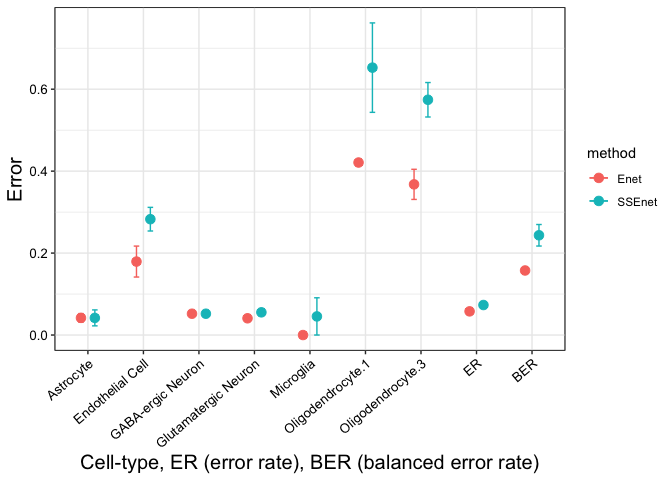
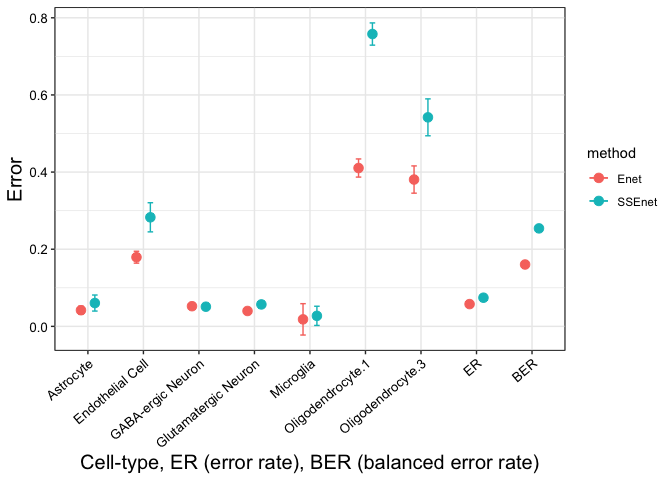
fix yaxis label on README

diff --git a/README.md b/README.md
@@ -2,41 +2,6 @@
 title: “Semi-Supervised Elastic Net (ssenet)” author: “Amrit Singh”
 date: “10 March, 2020”
 
-``` r
-knitr::opts_chunk$set(echo = TRUE, cache = FALSE, warning = FALSE, message = FALSE)
-
-library(magrittr); 
-library(knitr);
-library(ssenet); ## devtools::install_github("singha53/ssenet")
-```
-
-    ## 
-    ## Attaching package: 'ssenet'
-
-    ## The following object is masked from 'package:stats':
-    ## 
-    ##     predict
-
-``` r
-library(ggplot2);
-library(dplyr);
-```
-
-    ## 
-    ## Attaching package: 'dplyr'
-
-    ## The following objects are masked from 'package:stats':
-    ## 
-    ##     filter, lag
-
-    ## The following objects are masked from 'package:base':
-    ## 
-    ##     intersect, setdiff, setequal, union
-
-``` r
-library(UpSetR);
-```
-
 # Analysis for the Abstract Submission to \#BIRSBioIntegration [Mathematical Frameworks for Integrative Analysis of Emerging Biological Data Types](https://www.birs.ca/events/2020/5-day-workshops/20w5197)
 
 ## Zhu *et al* 2018: [seqFISH paper](https://www.nature.com/articles/nbt.4260)
@@ -56,6 +21,7 @@ library(UpSetR);
 <!-- end list -->
 
 ``` r
+library(ssenet); ## devtools::install_github("singha53/ssenet")
 include_graphics("inst/extdata/suppTable2.png")
 ```
 
@@ -158,14 +124,14 @@ cvEnet$perf
     ##   ErrName                Mean      SD
     ##   <chr>                 <dbl>   <dbl>
     ## 1 Astrocyte            0.0419 0.0104 
-    ## 2 BER                  0.158  0.00478
-    ## 3 Endothelial Cell     0.179  0.0378 
-    ## 4 ER                   0.0578 0.00255
-    ## 5 GABA-ergic Neuron    0.0520 0.00390
-    ## 6 Glutamatergic Neuron 0.0409 0.00319
-    ## 7 Microglia            0      0      
-    ## 8 Oligodendrocyte.1    0.421  0      
-    ## 9 Oligodendrocyte.3    0.368  0.0368
+    ## 2 BER                  0.160  0.00775
+    ## 3 Endothelial Cell     0.179  0.0154 
+    ## 4 ER                   0.0578 0.00289
+    ## 5 GABA-ergic Neuron    0.0523 0.00468
+    ## 6 Glutamatergic Neuron 0.0399 0.00333
+    ## 7 Microglia            0.0182 0.0407 
+    ## 8 Oligodendrocyte.1    0.411  0.0235 
+    ## 9 Oligodendrocyte.3    0.381  0.0353
 
 ## Apply Semi-supervised Enet to scRNAseq+seqFISH data to determine cell-type labels
 
@@ -182,15 +148,15 @@ cvSSEnet$perf
     ## # A tibble: 9 x 3
     ##   ErrName                Mean      SD
     ##   <chr>                 <dbl>   <dbl>
-    ## 1 Astrocyte            0.0419 0.0195 
-    ## 2 BER                  0.243  0.0263 
-    ## 3 Endothelial Cell     0.283  0.0289 
-    ## 4 ER                   0.0733 0.00518
-    ## 5 GABA-ergic Neuron    0.0520 0.00150
-    ## 6 Glutamatergic Neuron 0.0554 0.00603
-    ## 7 Microglia            0.0455 0.0455 
-    ## 8 Oligodendrocyte.1    0.653  0.109  
-    ## 9 Oligodendrocyte.3    0.574  0.0421
+    ## 1 Astrocyte            0.0605 0.0208 
+    ## 2 BER                  0.254  0.00657
+    ## 3 Endothelial Cell     0.283  0.0378 
+    ## 4 ER                   0.0743 0.00401
+    ## 5 GABA-ergic Neuron    0.0510 0.00365
+    ## 6 Glutamatergic Neuron 0.0569 0.00488
+    ## 7 Microglia            0.0273 0.0249 
+    ## 8 Oligodendrocyte.1    0.758  0.0288 
+    ## 9 Oligodendrocyte.3    0.542  0.0478
 
 ## Compare supervised and semi-supervised Enet (Enet and SSEnet) performance using cross-validation
 
@@ -205,7 +171,7 @@ cvErr %>%
   geom_line(position=pd) +
   geom_point(position=pd, size = 3) +
   theme_bw() +
-  ylab("Average error rate (2x2 cross-validation)") +
+  ylab("Average error rate (5x5 cross-validation)") +
   xlab("Cell-type, ER (error rate), BER (balanced error rate)") +
   customTheme(sizeStripFont = 15, xAngle = 40, hjust = 1, vjust = 1, 
     xSize = 10, ySize = 10, xAxisSize = 15, yAxisSize = 15) +
@@ -218,23 +184,23 @@ cvErr %>%
 | ErrName              |      Mean |        SD | method |
 | :------------------- | --------: | --------: | :----- |
 | Astrocyte            | 0.0418605 | 0.0104003 | Enet   |
-| BER                  | 0.1575556 | 0.0047798 | Enet   |
-| Endothelial Cell     | 0.1793103 | 0.0377740 | Enet   |
-| ER                   | 0.0577752 | 0.0025520 | Enet   |
-| GABA-ergic Neuron    | 0.0520368 | 0.0038981 | Enet   |
-| Glutamatergic Neuron | 0.0408867 | 0.0031877 | Enet   |
-| Microglia            | 0.0000000 | 0.0000000 | Enet   |
-| Oligodendrocyte.1    | 0.4210526 | 0.0000000 | Enet   |
-| Oligodendrocyte.3    | 0.3677419 | 0.0367799 | Enet   |
-| Astrocyte            | 0.0418605 | 0.0194572 | SSEnet |
-| BER                  | 0.2434792 | 0.0262661 | SSEnet |
-| Endothelial Cell     | 0.2827586 | 0.0288503 | SSEnet |
-| ER                   | 0.0732673 | 0.0051831 | SSEnet |
-| GABA-ergic Neuron    | 0.0520368 | 0.0014983 | SSEnet |
-| Glutamatergic Neuron | 0.0554187 | 0.0060332 | SSEnet |
-| Microglia            | 0.0454545 | 0.0454545 | SSEnet |
-| Oligodendrocyte.1    | 0.6526316 | 0.1091392 | SSEnet |
-| Oligodendrocyte.3    | 0.5741935 | 0.0420594 | SSEnet |
+| BER                  | 0.1603893 | 0.0077518 | Enet   |
+| Endothelial Cell     | 0.1793103 | 0.0154212 | Enet   |
+| ER                   | 0.0577752 | 0.0028945 | Enet   |
+| GABA-ergic Neuron    | 0.0522996 | 0.0046829 | Enet   |
+| Glutamatergic Neuron | 0.0399015 | 0.0033274 | Enet   |
+| Microglia            | 0.0181818 | 0.0406558 | Enet   |
+| Oligodendrocyte.1    | 0.4105263 | 0.0235376 | Enet   |
+| Oligodendrocyte.3    | 0.3806452 | 0.0353369 | Enet   |
+| Astrocyte            | 0.0604651 | 0.0208006 | SSEnet |
+| BER                  | 0.2540298 | 0.0065688 | SSEnet |
+| Endothelial Cell     | 0.2827586 | 0.0377740 | SSEnet |
+| ER                   | 0.0743157 | 0.0040055 | SSEnet |
+| GABA-ergic Neuron    | 0.0509855 | 0.0036464 | SSEnet |
+| Glutamatergic Neuron | 0.0568966 | 0.0048797 | SSEnet |
+| Microglia            | 0.0272727 | 0.0248965 | SSEnet |
+| Oligodendrocyte.1    | 0.7578947 | 0.0288275 | SSEnet |
+| Oligodendrocyte.3    | 0.5419355 | 0.0478464 | SSEnet |
 
 ## Overlap between selected features with those used in the Nature paper (SVM)
 
